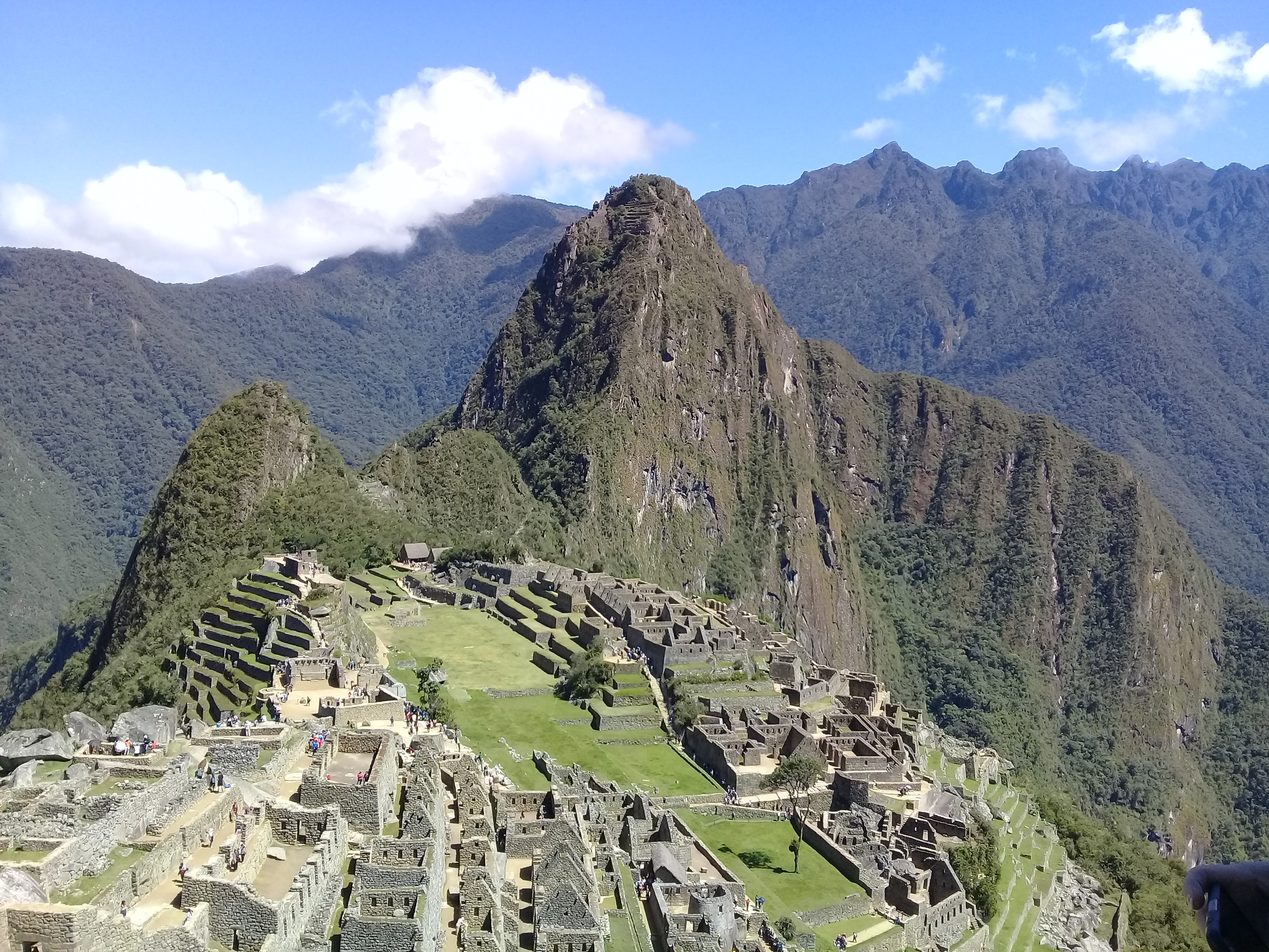
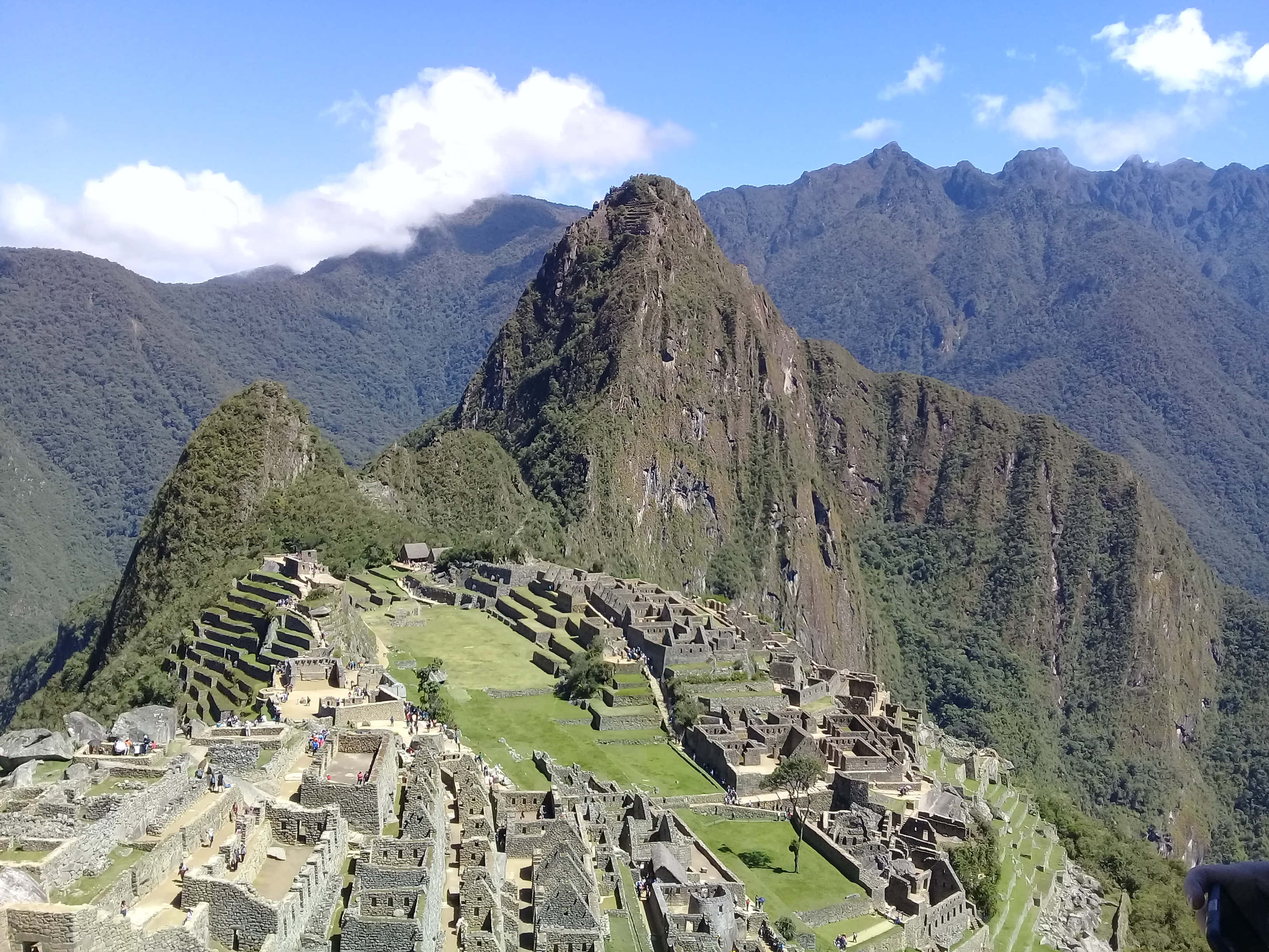
commit
cambio de img

diff --git a/sobremi.html b/sobremi.html
@@ -90,7 +90,7 @@
               hablando conmigo, quizás aparezca a maullar de fondo.
             </p>
           </div>
-          <img class="img-3ac" src="assets/img/venary.png" alt="" />
+          <img class="img-3ac" src="assets/img/venary.jpg" alt="" />
         </article>
         <hr />
       </div>
